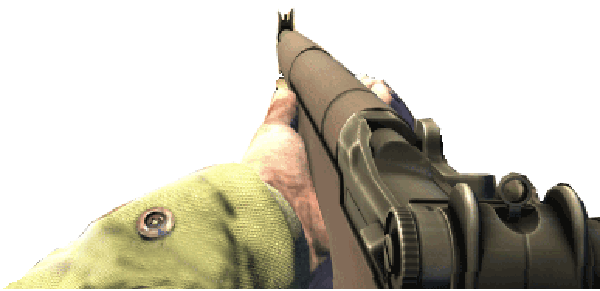
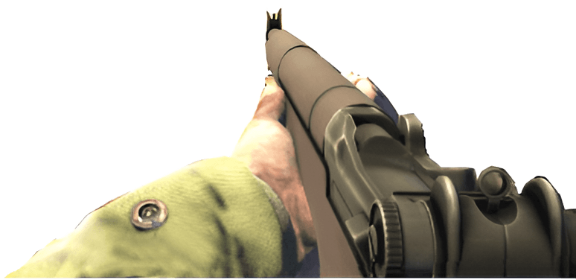
m

diff --git a/utils/classes/2d/FPSRenderer.js b/utils/classes/2d/FPSRenderer.js
@@ -6,7 +6,7 @@ const targetSrc = '/assets/images/crosshair.png'
 let time = 0
 
 export default class FPSRenderer extends Canvas {
-  constructor({ weaponSrc = '/assets/images/savo-x.png', targetY = 0.5 } = {}) {
+  constructor({ weaponSrc = '/assets/images/savo-big.png', targetY = 0.5 } = {}) {
     super()
     this.weaponSrc = weaponSrc
     this.weaponImg = new Image()
